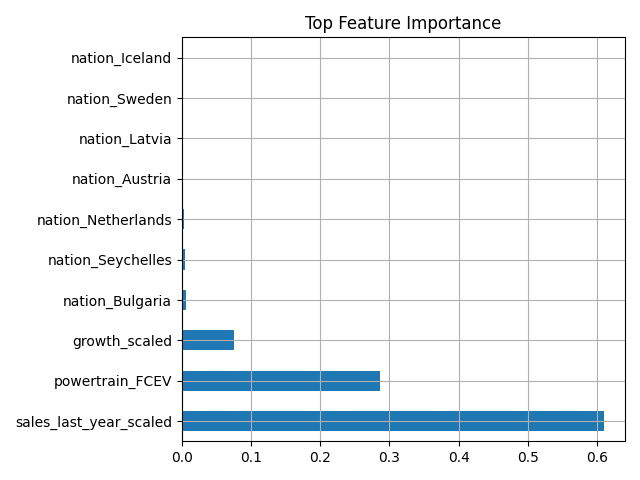
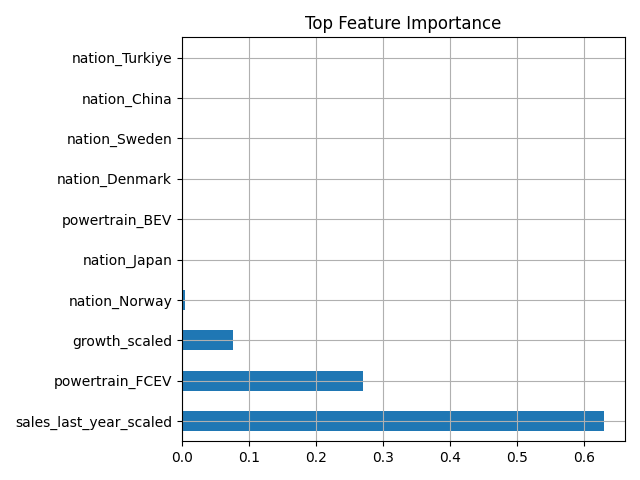
16/07 finale, previsioni al 2024. Si potrebbero aggiungere previsioni più a lungo termine

diff --git a/src/model_training.py b/src/model_training.py
@@ -21,32 +21,29 @@ def train_and_evaluate_model(df: pd.DataFrame):
     df["sales_last_year"] = df.groupby(["nation", "powertrain"])["value"].shift(1)
     df["growth_rate"] = (df["value"] - df["sales_last_year"]) / df["sales_last_year"]
     df = df.dropna()
-
-    # === Winsorization ===
     df["value_wins"] = winsorize(df["value"], limits=[0.01, 0.01])
 
-    # === Define X and y ===
     X = df[["nation", "year", "powertrain", "sales_last_year", "growth_rate"]]
     y = np.log1p(df["value_wins"])
 
-    # === Fit encoder and scaler ===
     encoder, scaler = fit_preprocessors(X)
-
-    # === Prepare features ===
     X_prepared = preprocess_features(X, encoder, scaler)
 
-    # === Setup model and CV ===
+    # === TEST SPLIT aggiunto === 🔁
+    X_train, X_test, y_train, y_test = train_test_split(
+        X_prepared, y, test_size=0.2, random_state=42
+    )
+
+    # === MODEL ===
     model = TransformedTargetRegressor(
         regressor=XGBRegressor(random_state=42, n_estimators=100, verbosity=0),
         func=np.log1p,
         inverse_func=np.expm1
     )
 
+    # === CROSS VALIDATION solo su train set === 🔁
     kf = KFold(n_splits=5, shuffle=True, random_state=42)
-
-    metrics = {
-        "MAE": [], "RMSE": [], "R2": [], "MAPE": [], "MedAE": [], "MaxError": []
-    }
+    metrics = { "MAE": [], "RMSE": [], "R2": [], "MAPE": [], "MedAE": [], "MaxError": [] }
 
     for train_idx, val_idx in kf.split(X_prepared):
         X_train_cv, X_val_cv = X_prepared.iloc[train_idx], X_prepared.iloc[val_idx]
@@ -65,16 +62,24 @@ def train_and_evaluate_model(df: pd.DataFrame):
         metrics["MedAE"].append(median_absolute_error(y_true_exp, y_pred_exp))
         metrics["MaxError"].append(max_error(y_true_exp, y_pred_exp))
 
-    print("\n\U0001F4CA Cross-Validation Metrics with Growth Rate and Extended Evaluation:")
+    print("\n📊 Cross-Validation Metrics:")
     for m, scores in metrics.items():
         print(f"{m:6s}: {np.mean(scores):,.2f}")
 
-    # === Final fit ===
+    # === TEST METRICS aggiunte === 🔁
+    model.fit(X_train, y_train)
+    y_test_pred = model.predict(X_test)
+    y_test_exp = np.expm1(y_test)
+    y_test_pred_exp = np.expm1(y_test_pred)
+
+    print("\n🧪 Test Set Metrics:")
+    print(f"MAE   : {mean_absolute_error(y_test_exp, y_test_pred_exp):,.2f}")
+    print(f"RMSE  : {root_mean_squared_error(y_test_exp, y_test_pred_exp):,.2f}")
+    print(f"R2    : {r2_score(y_test_exp, y_test_pred_exp):.2f}")
+    print(f"MAPE  : {mean_absolute_percentage_error(y_test_exp, y_test_pred_exp):.2f}")
+
+    # === FINAL FIT su tutto il dataset === 🔁
     model.fit(X_prepared, y)
 
-    # === Save ===
-    joblib.dump(model, "models/xgb_model.pkl")
-    joblib.dump(encoder, "models/encoder.pkl")
-    joblib.dump(scaler, "models/scaler.pkl")
+    return model, encoder, scaler, X, y
 
-    return model, encoder, scaler

diff --git a/src/visualizations.py b/src/visualizations.py
@@ -1,0 +1,38 @@
+# src/visualizations.py
+
+import matplotlib.pyplot as plt
+import pandas as pd
+import numpy as np
+import os
+from src.preprocessing import preprocess_features, load_preprocessors
+
+def generate_visualizations(model, encoder, scaler, X_test, y_test):
+    X_processed = preprocess_features(X_test, encoder, scaler)
+    y_pred = model.predict(X_processed)
+    y_true = np.expm1(y_test)
+    y_pred = np.expm1(y_pred)
+
+    os.makedirs("plots", exist_ok=True)
+
+    # Scatter plot: True vs Predicted
+    plt.figure()
+    plt.scatter(y_true, y_pred, alpha=0.4)
+    plt.xlabel("True Sales")
+    plt.ylabel("Predicted Sales")
+    plt.title("True vs Predicted EV Sales")
+    plt.plot([0, y_true.max()], [0, y_true.max()], "--r")
+    plt.grid(True)
+    plt.tight_layout()
+    plt.savefig("plots/true_vs_predicted_sales.png")
+    plt.close()
+
+    # Feature Importance
+    importances = model.regressor_.feature_importances_
+    features = X_processed.columns
+    plt.figure()
+    pd.Series(importances, index=features).sort_values(ascending=False).head(10).plot(kind="barh")
+    plt.title("Top Feature Importance")
+    plt.grid(True)
+    plt.tight_layout()
+    plt.savefig("plots/feature_importance.png")
+    plt.close()

diff --git a/main.py b/main.py
@@ -1,17 +1,22 @@
 from dataset import load_dataset_nations
 from src.model_training import train_and_evaluate_model
+from src.visualizations import generate_visualizations
 import joblib
 import os
 
 # === Load dataset ===
 df = load_dataset_nations()
 
-# === Train model and evaluate ===
-model, encoder, scaler = train_and_evaluate_model(df)
+# === Train and evaluate ===
+model, encoder, scaler, X, y = train_and_evaluate_model(df)
 
-# === Save artifacts ===
+# === Save models ===
 os.makedirs("models", exist_ok=True)
 joblib.dump(model, "models/xgb_model.pkl")
 joblib.dump(encoder, "models/encoder.pkl")
 joblib.dump(scaler, "models/scaler.pkl")
-print("\n\U0001F4C8 Model training and evaluation completed successfully!")
+
+# === Generate plots ===
+generate_visualizations(model, encoder, scaler, X, y)
+
+print("\n📈 Model training, evaluation, and visualizations completed successfully!")

diff --git a/README.md b/README.md
@@ -1,6 +1,20 @@
-# 🔋 Electric Vehicle Sales Forecasting
+# 📈 Electric Vehicle Sales Forecasting (2010–2024)
+![Python](https://img.shields.io/badge/python-3.11+-blue)
+![License](https://img.shields.io/badge/license-MIT-green)
 
-Questo progetto mira a prevedere le vendite di veicoli elettrici (EV) per nazione e tipo di motore (BEV, PHEV) a partire dai dati storici 2010–2023.
+Previsione delle vendite di veicoli elettrici a livello globale attraverso modelli di regressione avanzata su dati storici reali.
+
+---
+
+## 🧠 Obiettivo
+
+Utilizzare dati storici sulle vendite di veicoli elettrici per:
+
+- Effettuare un'analisi esplorativa (EDA),
+- Addestrare un modello predittivo (XGBoost con regressione trasformata),
+- Valutare le performance con metodi robusti,
+- Prevedere le vendite del 2024 per ciascun Paese e powertrain,
+- Visualizzare le previsioni e le metriche in modo chiaro e interpretabile.
 
 ---
 
@@ -10,7 +24,7 @@ Questo progetto mira a prevedere le vendite di veicoli elettrici (EV) per nazion
 ml-electric-car-sales/
 ├── models/                # Modelli salvati (.gitkeep presente)
 │
-├── notebooks/             # Notebook e script EDA
+├── notebooks/             # script EDA
 │   ├── EDA.py
 │   └── EDA_2.py
 │
@@ -23,6 +37,7 @@ ml-electric-car-sales/
 │   ├── regression_upgraded.py
 │   ├── predict_ev_sales.py
 │   ├── batch_predict_ev_sales.py
+│   ├── visualizations.py
 │   └── visualizza_previsioni.py
 │
 ├── plots/                 # Grafici
@@ -35,29 +50,96 @@ ml-electric-car-sales/
 
 ---
 
-## 🚀 Pipeline
+## 🔍 Dataset
 
-1. **Analisi Esplorativa** (`EDA.py`)
-2. **Preparazione dati** (`dataset.py`)
-3. **Modellazione** (`regression_advanced.py` o `regression_upgraded.py`)
-4. **Trattamento outlier** (`regression_outliers.py`)
-5. **Salvataggio del modello**
-6. **Predizione singola** (`predict_ev_sales.py`)
-7. **Batch prediction** (`batch_predict_ev_sales.py`)
-8. **Visualizzazione risultati** (`visualizza_previsioni.py`)
+Dati provenienti da [Kaggle - EV Sales Dataset](https://www.kaggle.com/datasets/evdataset/ev-sales-data), contenenti vendite dal 2010 al 2023 per nazione e tipo di powertrain.
 
 ---
 
+## ⚙ Funzionalità principali
+
+- Feature Engineering (Lag e Growth Rate)
+- Winsorization su outlier target
+- Preprocessing: encoding e scaling
+- Regressione XGBoost con trasformazione logaritmica
+- K-Fold Cross Validation
+- Salvataggio modelli e previsioni
+- Predizione vendite 2024
+- Visualizzazione performance e importanza delle feature
+
+---
+
+## 📊 Metriche
+
+**Cross Validation:**
+
+- MAE: ~2,529  
+- RMSE: ~11,494  
+- R²: ~0.97  
+- MAPE: ~15%
+
+**Test Set:**
+
+- MAE: ~3,514  
+- RMSE: ~13,215  
+- R²: ~0.97  
+- MAPE: ~17%
+
+Le metriche su training e test sono molto simili → **il modello generalizza bene** e non mostra segnali evidenti di overfitting.
+
+---
+
+## 🚀 Avvio rapido
+
+### 1. Clona il progetto
+```bash
+git clone https://github.com/SimoneDalBen/ml-electric-car-sales.git
+cd ml-electric-car-sales
+```
+
+### 2. Crea ambiente e installa dipendenze
+```bash
+python -m venv venv
+venv\Scripts\activate  # su Windows
+pip install -r requirements.txt
+```
+
+### 3. Esgui training + valutazione
+```bash
+python main.py
+```
+
+### 4. Esegui le previsioni per il 2024
+```bash
+python src/batch_predict_ev_sales.py
+```
+
 ## 📦 Dipendenze principali
 
+- Python 3.11+
 - pandas
 - numpy
 - matplotlib
 - scikit-learn
 - xgboost
+- joblib
 
 Installa tutto con:
 
 ```bash
 pip install -r requirements.txt
 ```
+
+---
+
+## 👤 Autore
+
+**Simone Dal Ben**  
+📧 [simonedalben38@gmail.com](mailto:simonedalben38@gmail.com)  
+🔗 [LinkedIn](https://www.linkedin.com/in/simone-dal-ben)  
+
+---
+
+## 📄 Licenza
+
+Questo progetto è rilasciato sotto licenza MIT. Vedi il file [LICENSE](LICENSE) per maggiori dettagli.
